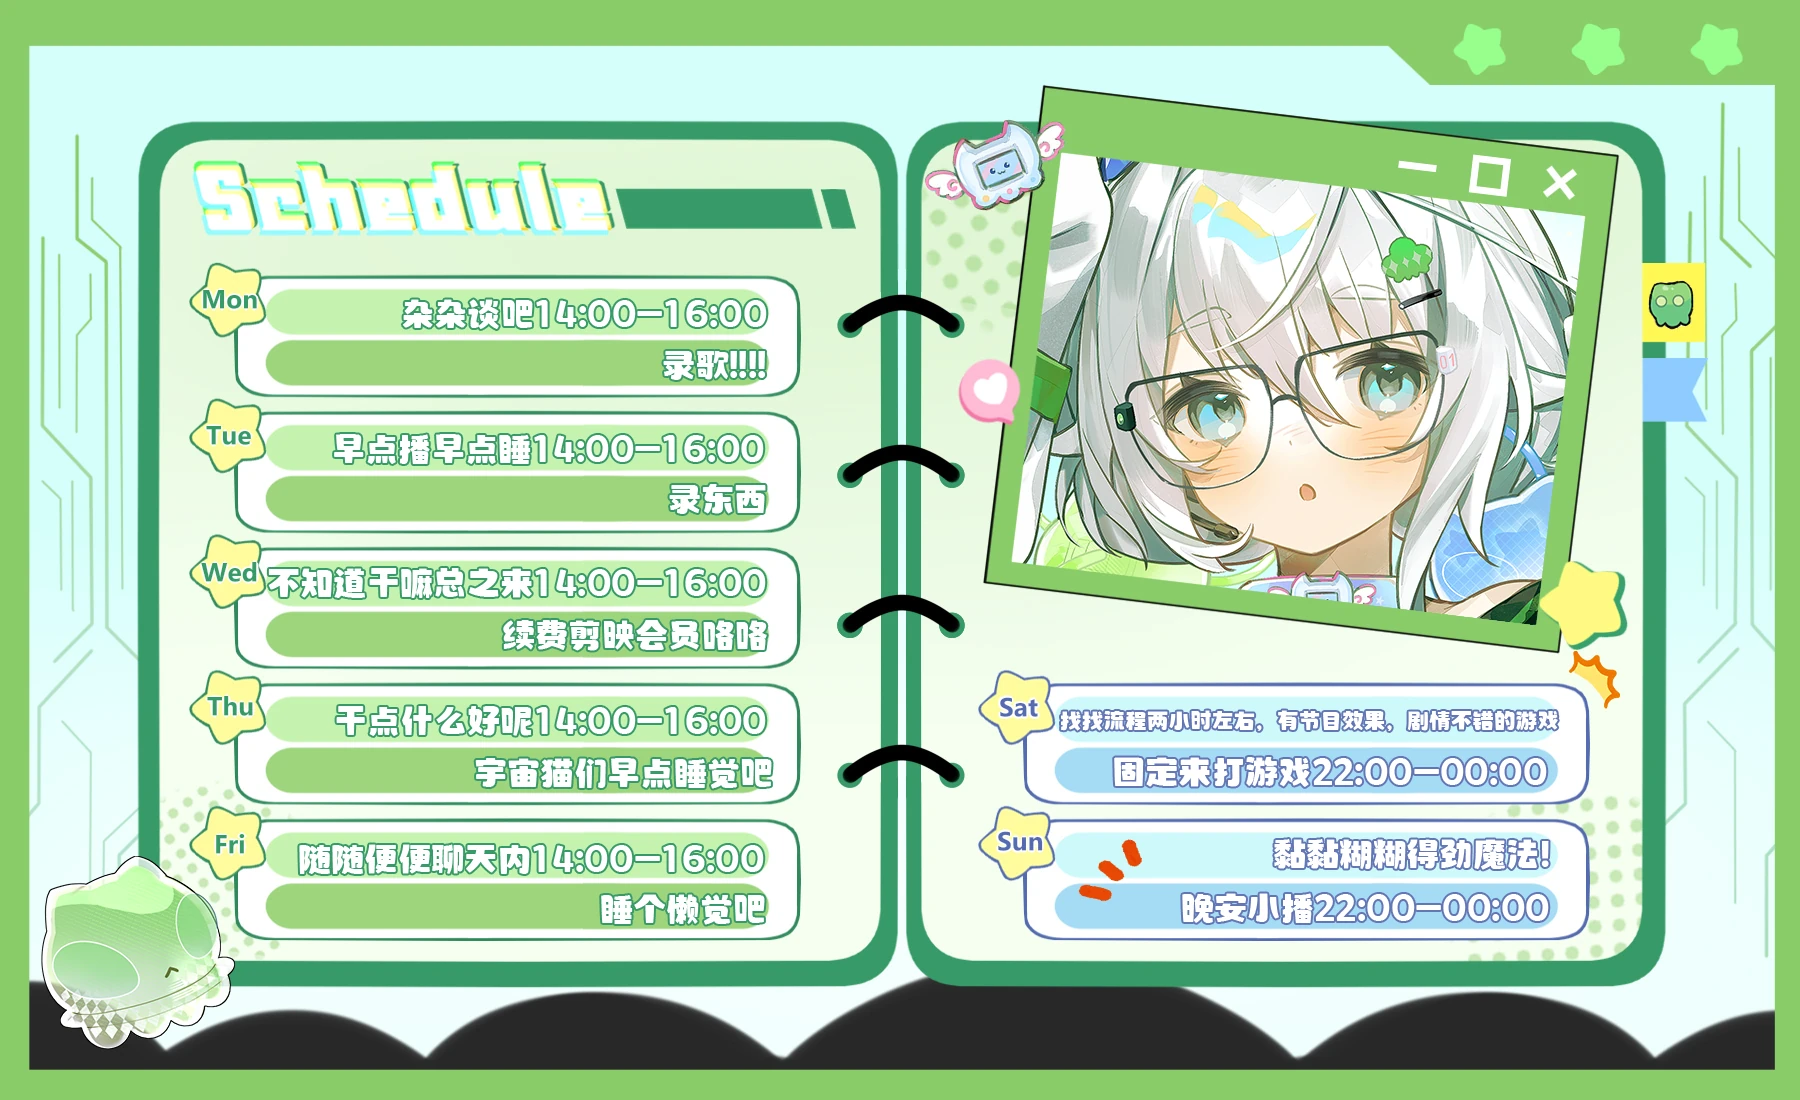
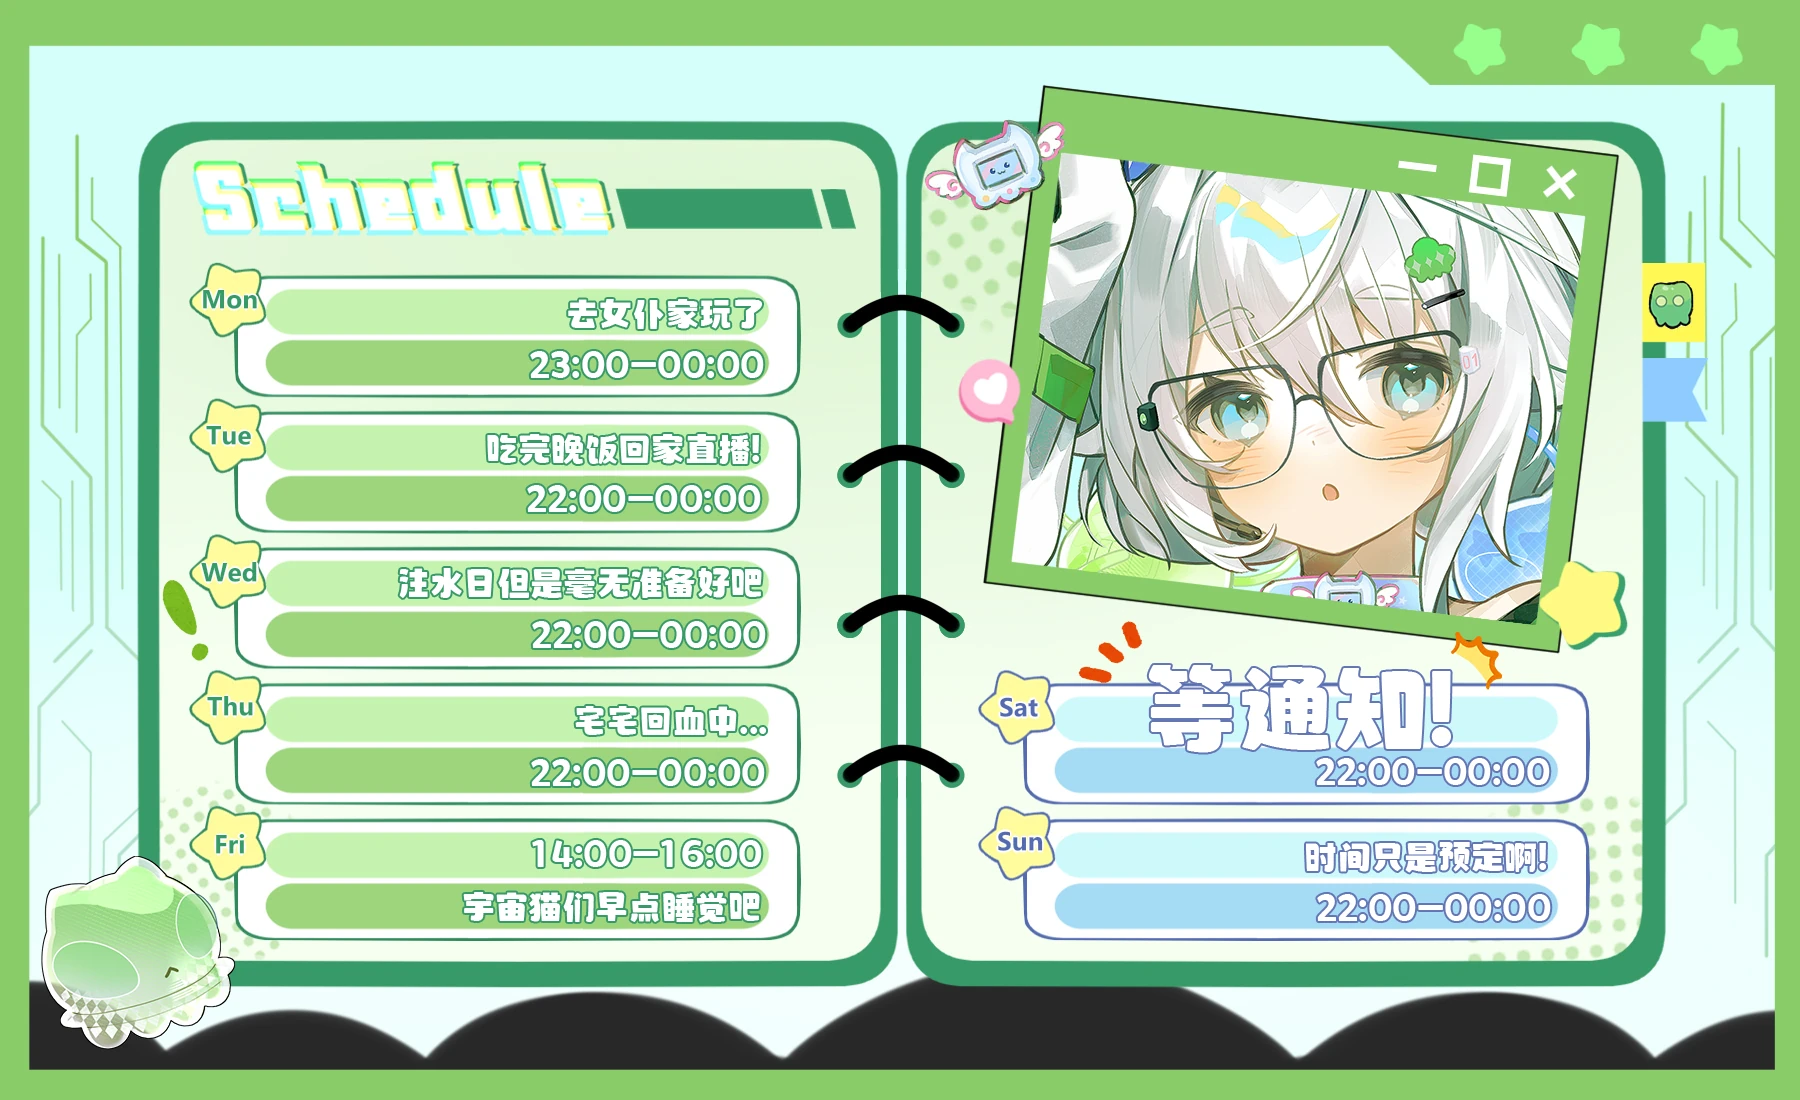
自动更新 2026-11-18 02:58

diff --git a/index.html b/index.html
@@ -231,7 +231,7 @@
     <h2><span class="no">QUEST</span>每周计划</h2>
   </div>
   <div class="wk-head reveal">
-    <span class="wk-status"><span class="dot" aria-hidden="true"></span><span id="planWhen">更新于 <span class="wk-date">2026年11月10日</span></span></span>
+    <span class="wk-status"><span class="dot" aria-hidden="true"></span><span id="planWhen">更新于 <span class="wk-date">2026年11月18日</span></span></span>
     <h2 class="wk-title">本周计划</h2>
     <p class="wk-sub">周表内容来自主页置顶动态的第一张图，每周自动检查一次，置顶动态更新后自动抓取替换。</p>
     <ul class="wk-list">
@@ -255,7 +255,7 @@
                别手工把它改成 <picture> —— 浏览器的 <source> 优先级高于 <img src>，
                会把下面那套「悬停换高清图」的状态机打死（实测改 img.src 完全失效）。
              同时把上方「更新于 X年X月X日」改成抓取/上传那天的日期 -->
-        <img id="weekImg" src="images/schedule-week.webp?v=202611101156" alt="本周周表照片" referrerpolicy="no-referrer" loading="lazy" decoding="async">
+        <img id="weekImg" src="images/schedule-week.webp?v=202611180249" alt="本周周表照片" referrerpolicy="no-referrer" loading="lazy" decoding="async">
         <div class="wk-q" id="weekFail" hidden>？</div>
       </div>
     </div>
@@ -1162,8 +1162,8 @@
     var KEY  = "chu2u-week-v2";          /* 远程抓取缓存 {id, img, ts, week} */
     var DKEY = "chu2u-week-drop";        /* 拖入图片缓存 {img, ts} */
     var UID = "2138961136";
-    var LOCAL = "images/schedule-week.webp?v=202611101156";      /* 静止显示版（1140px 素材按 570px 显示）；?v= 由维护脚本换图时自动改日期，绕过浏览器缓存 */
-    var FULL  = "images/schedule-week-full.webp?v=202611101156"; /* 无损原图（悬停与单击大图共用） */
+    var LOCAL = "images/schedule-week.webp?v=202611180249";      /* 静止显示版（1140px 素材按 570px 显示）；?v= 由维护脚本换图时自动改日期，绕过浏览器缓存 */
+    var FULL  = "images/schedule-week-full.webp?v=202611180249"; /* 无损原图（悬停与单击大图共用） */
     var when    = document.getElementById("planWhen");
     var img     = document.getElementById("weekImg");
     var fail    = document.getElementById("weekFail");
